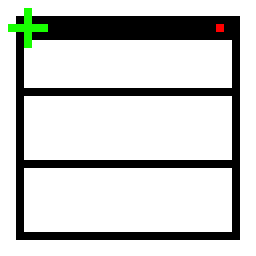
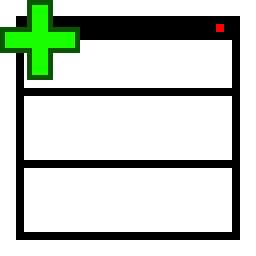
Added togglebutton for addArrowMode and an image for the mode. Does not function yet.

Changed region(s): [[0.0, 0.0, 0.3125, 0.3125]]

diff --git a/src/Main.java b/src/Main.java
@@ -7,6 +7,7 @@ import javafx.scene.layout.BorderPane;
 import javafx.scene.control.Button;
 import javafx.scene.control.ChoiceBox;
 import javafx.scene.control.ToggleButton;
+import javafx.scene.control.ToggleGroup;
 import javafx.scene.image.Image;
 import javafx.scene.image.ImageView;
 import javafx.geometry.Insets;
@@ -84,6 +85,8 @@ public class Main extends Application
         useConnectorButton.setPrefHeight(30);
         GridPane.setConstraints( useConnectorButton, 2, 0 );
 
+        ToggleGroup editingModes = new ToggleGroup ();
+        
         ImageView textBoxModeImage = new ImageView(new Image ("AddTextBox.png"));
         textBoxModeImage.setFitWidth (32);
         textBoxModeImage.setFitHeight (32);
@@ -92,6 +95,17 @@ public class Main extends Application
         addTextBoxMode.setPrefHeight(32);
         GridPane.setConstraints(addTextBoxMode, 3, 0);
         topGrid.getChildren().add(addTextBoxMode);
+        editingModes.getToggles().add(addTextBoxMode);
+        
+        ImageView addArrowModeImage = new ImageView(new Image ("AddArrow.png"));
+        addArrowModeImage.setFitWidth (32);
+        addArrowModeImage.setFitHeight (32);
+        ToggleButton addArrowMode = new ToggleButton ("", addArrowModeImage);
+        addArrowMode.setPrefWidth(32);
+        addArrowMode.setPrefHeight(32);
+        GridPane.setConstraints(addArrowMode, 4, 0);
+        topGrid.getChildren().add(addArrowMode);
+        editingModes.getToggles().add(addArrowMode);
         
         center.setOnMouseClicked( e ->
         {
